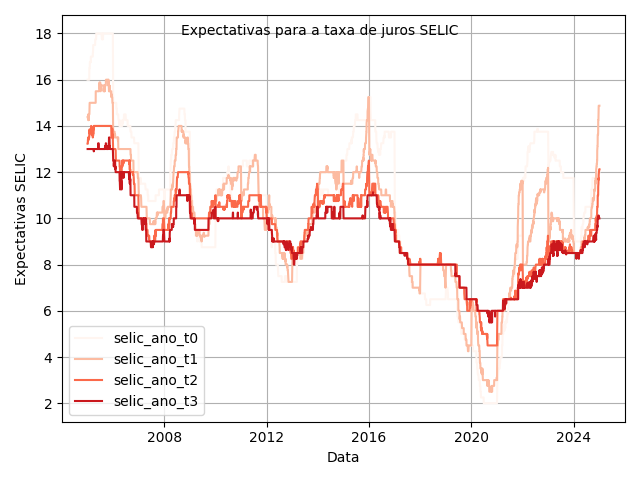
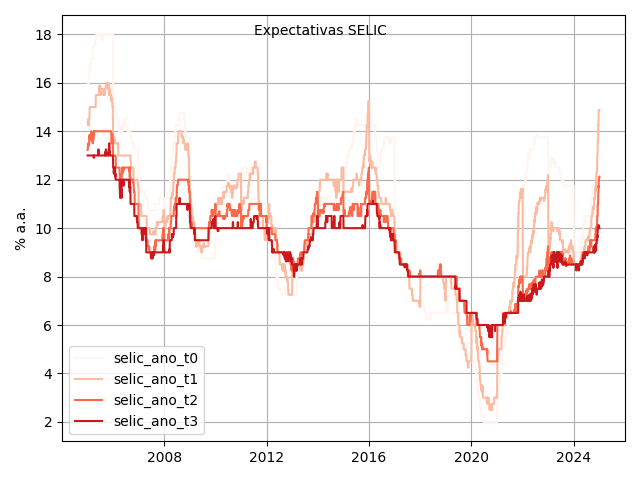
+ graficos !

diff --git a/apps/var/var.py b/apps/var/var.py
@@ -1,11 +1,13 @@
 # %%# Libraries
 import os
+
 os.system('pip install openpyxl')
 import pandas as pd
 from matplotlib.colors import LinearSegmentedColormap
 import matplotlib.pyplot as plt
 import os
 import re
+import numpy as np
 
 # %%# Loading Data
 variables_list = ["beta1", "beta2", "beta3", "beta4", "tau1", "tau2",
@@ -35,70 +37,126 @@ df.columns = [rename_column(col) for col in df.columns]
 cols_excluidas = ['beta1', 'beta2', 'beta3', 'beta4', 'tau1', 'tau2']
 df.loc[:, ~df.columns.isin(cols_excluidas)] = df.loc[:, ~df.columns.isin(cols_excluidas)].mask(df == 0).ffill()
 
-# %%# Plotting
-# Definindo os grupos
+
+# %%# Plot NSS
+scatter_cols = ['beta1', 'beta2', 'beta3', 'beta4', 'tau1', 'tau2']
+
+n_plots = len(scatter_cols)
+n_cols = 3  # Number of columns in subplot grid
+n_rows = (n_plots + n_cols - 1) // n_cols
+
+# Create figure and subplots
+fig, axes = plt.subplots(n_rows, n_cols, figsize=(15, 4 * n_rows), squeeze=False)
+axes = axes.flatten()
+
+for i, col in enumerate(scatter_cols):
+    ax = axes[i]
+    ax.scatter(df.index, df[col], alpha=0.5, s=4, color='#08306b', edgecolor='#08306b')
+    ax.set_title(col)
+    ax.grid(True)
+
+# Remove unused axes
+for j in range(i + 1, len(axes)):
+    fig.delaxes(axes[j])
+
+plt.tight_layout(rect=[0, 0, 1, 0.96])
+plt.suptitle("Parâmetros Nelson-Siegel-Svensson", fontsize=14)
+
+# Save to file
+output_path = os.path.join("plots_new", "nss-series.png")
+plt.savefig(output_path)
+plt.close()
+
+#%%# Histogram
+n_plots = len(scatter_cols)
+n_cols = 3  # Number of columns in subplot grid
+n_rows = (n_plots + n_cols - 1) // n_cols
+
+# Create figure and subplots
+fig, axes = plt.subplots(n_rows, n_cols, figsize=(15, 4 * n_rows), squeeze=False)
+axes = axes.flatten()
+
+for i, col in enumerate(scatter_cols):
+    ax = axes[i]
+    ax.hist(df[col].dropna(), bins=30, color='#08306b', edgecolor='#051a3a', alpha=1)
+    ax.set_title(f"{col}")
+    ax.grid(True)
+
+# Remove unused axes
+for j in range(i + 1, len(axes)):
+    fig.delaxes(axes[j])
+
+plt.tight_layout(rect=[0, 0, 1, 0.96])
+plt.suptitle("Distribuição dos parâmetros Nelson-Siegel-Svensson", fontsize=14)
+
+# Save to file
+output_path = os.path.join("plots_new", "nss-histograms.png")
+plt.savefig(output_path)
+plt.close()
+
+# %%# Plot FOCUS
+
 groups = {
-    'Nelson-Siegel Factors': {
-        'cols': ["beta1", "beta2", "beta3", "beta4", "tau1", "tau2"],
-        'y_label': 'Fatores de Nelson-Siegel',
-        'line_color': 'Blues',  # Definir a cor do degradê
-        'subtitle': 'Fatores modelados de acordo com a curva de rendimento',
-        'marker': 'o',  # Bolinhas para a série temporal
-    },
     'Expectativas IPCA': {
         'cols': [col for col in df.columns if col.startswith("ipca")],
-        'y_label': 'Expectativas IPCA',
-        'line_color': 'Greens',
-        'subtitle': 'Expectativas para a inflação do IPCA',
-        'marker': '-'  # Linha contínua
+        'title': 'IPCA',
+        'y_label': 'Variação %',
     },
     'Expectativas SELIC': {
         'cols': [col for col in df.columns if col.startswith("selic")],
-        'y_label': 'Expectativas SELIC',
-        'line_color': 'Reds',
-        'subtitle': 'Expectativas para a taxa de juros SELIC',
-        'marker': '-'  # Linha contínua
+        'title': 'SELIC',
+        'y_label': '% a.a.',
     },
     'Expectativas USD': {
         'cols': [col for col in df.columns if col.startswith("usd")],
-        'y_label': 'Expectativas USD',
-        'line_color': 'Oranges',
-        'subtitle': 'Expectativas para o valor do USD',
-        'marker': '-'  # Linha contínua
+        'title': 'Câmbio',
+        'y_label': 'BRL/USD',
     },
     'Expectativas PIB': {
         'cols': [col for col in df.columns if col.startswith("pib")],
-        'y_label': 'Expectativas PIB',
-        'line_color': 'Purples',
-        'subtitle': 'Expectativas para o Produto Interno Bruto',
-        'marker': '-'  # Linha contínua
+        'title': 'PIB',
+        'y_label': 'Variação % sobre ano anterior',
     },
 }
 
-# Função para plotar e salvar cada grupo
-for group_name, attributes in groups.items():
-    ax = plt.gca()  # Obter o eixo para customização
+n_groups = len(groups)
+n_cols = 2  # Número de colunas de subplots
+n_rows = (n_groups + n_cols - 1) // n_cols  # Número de linhas necessário
 
-    # Se for o grupo 'Nelson-Siegel Factors', usar bolinhas
-    if group_name == 'Nelson-Siegel Factors':
-        for i, col in enumerate(attributes['cols']):
-            ax.plot(df.index, df[col], marker=attributes['marker'], color=plt.cm.Blues(i / len(attributes['cols'])), label=col)
-    else:
-        # Caso contrário, fazer um degradê nas séries
-        for i, col in enumerate(attributes['cols']):
-            ax.plot(df.index, df[col], color=plt.cm.get_cmap(attributes['line_color'])(i / len(attributes['cols'])), label=col)
+# Criar figura e eixos
+fig, axes = plt.subplots(n_rows, n_cols, figsize=(14, 4 * n_rows), squeeze=False)
+axes = axes.flatten()  # Flatten axes para acesso mais fácil
 
-    plt.xlabel('Data')
-    plt.ylabel(attributes['y_label'])  # Eixo Y personalizado
-    plt.grid(True)
-    plt.legend(loc='best')
-    plt.tight_layout()
+# Iterar pelos grupos e eixos
+for idx, (group_name, attributes) in enumerate(groups.items()):
+    ax = axes[idx]
+    n_colors = len(attributes['cols'])
+    color_range = np.linspace(0.3, 1.0, n_colors)  # Evita tons muito claros/escuros
+    cmap = plt.colormaps['Blues']  # Forma moderna de acessar colormap
 
-    # Adicionar subtítulo
-    plt.figtext(0.5, 0.95, attributes['subtitle'], ha='center', va='top', fontsize=10, color='black')
+    for i, (col, cval) in enumerate(zip(reversed(attributes['cols']), color_range)):
+        color = cmap(cval)
+        ax.plot(
+            df.index,
+            df[col],
+            color=color,
+            label=col,
+            linestyle='-'
+        )
 
-    # Sanitize filename
-    filename = group_name.lower().replace(" ", "_").replace("(", "").replace(")", "") + ".png"
-    filepath = os.path.join("plots_new", filename)
-    plt.savefig(filepath)
-    plt.close()
+    ax.set_title(attributes['title'], fontsize=10)
+    ax.set_ylabel(attributes['y_label'])
+    ax.grid(True)
+    ax.legend(loc='best', fontsize=8)
+
+# Remover eixos extras (caso n_groups < n_rows * n_cols)
+for j in range(idx + 1, len(axes)):
+    fig.delaxes(axes[j])
+
+plt.tight_layout(rect=[0, 0, 1, 0.96])
+plt.suptitle("Expectativas Econômicas - FOCUS", fontsize=14)
+
+# Salvar a figura única
+output_path = os.path.join("plots_new", "focus.png")
+plt.savefig(output_path)
+plt.close()
